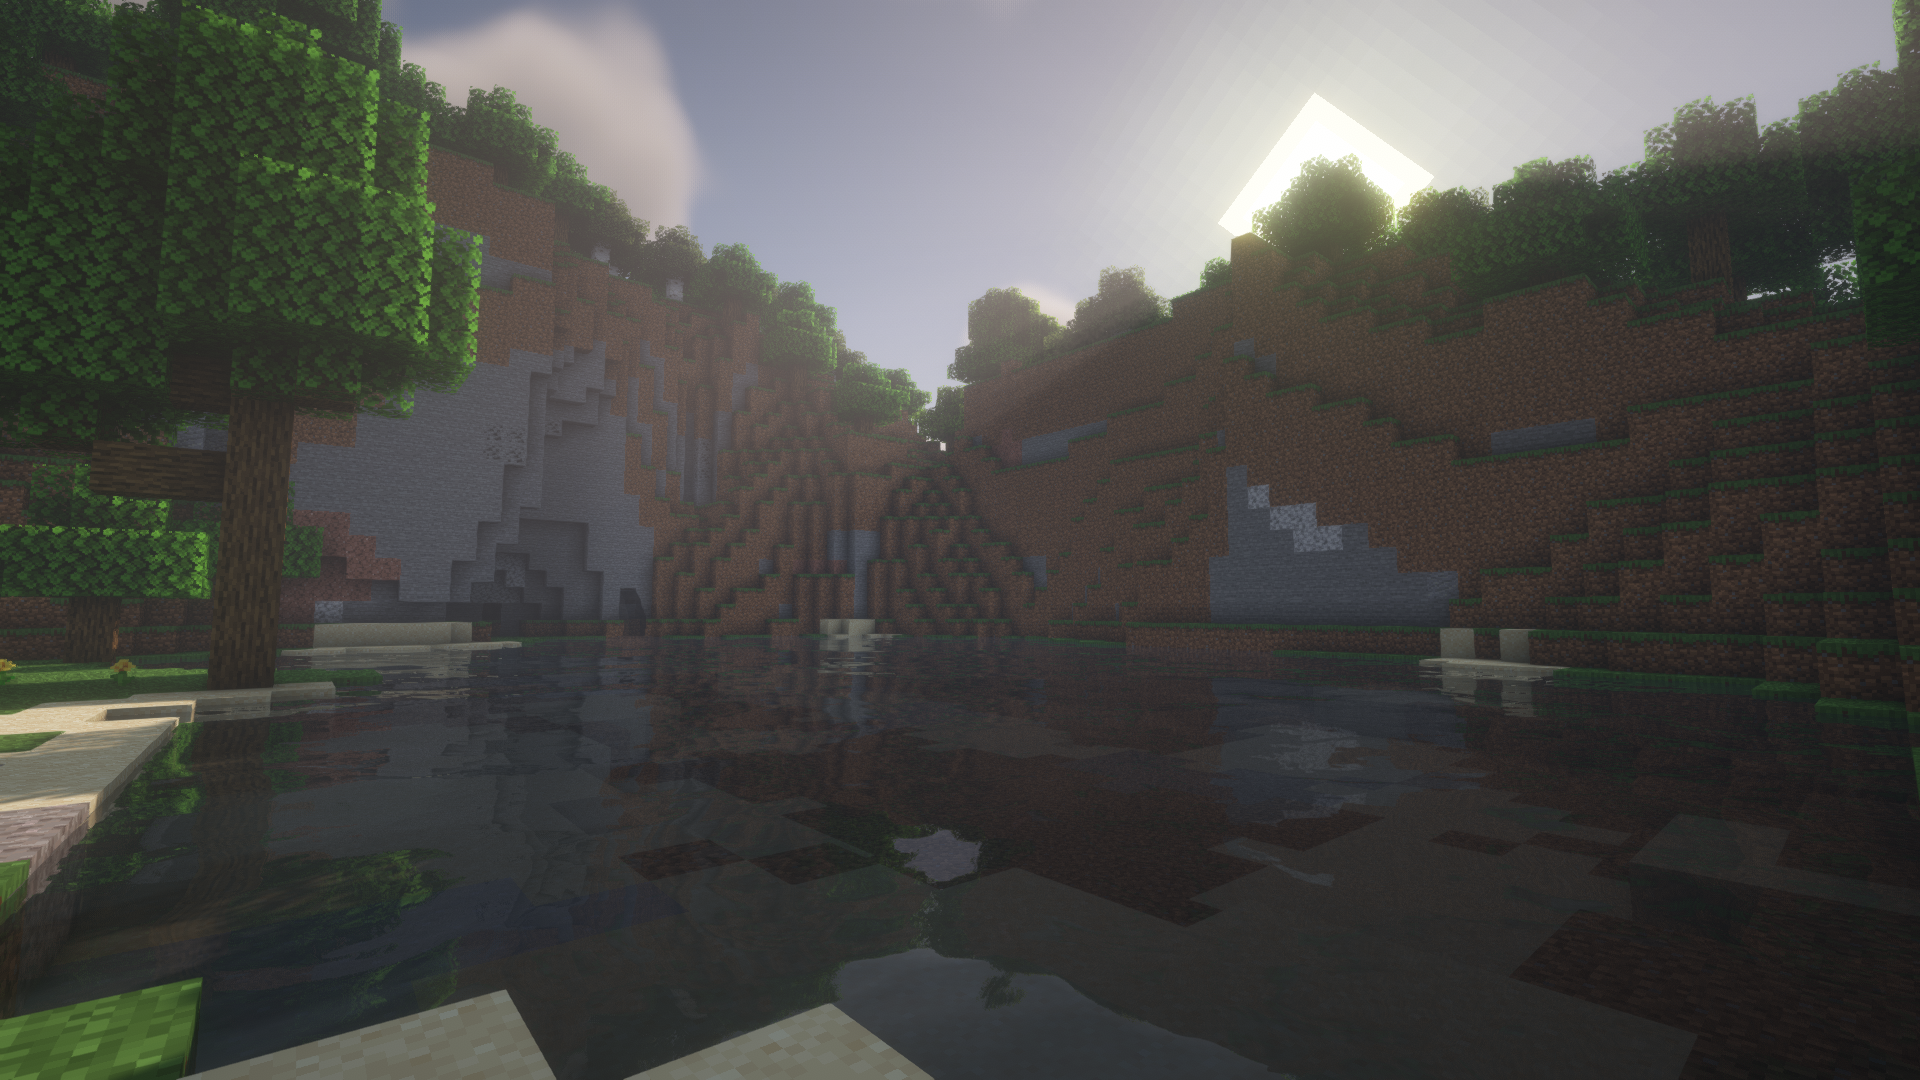
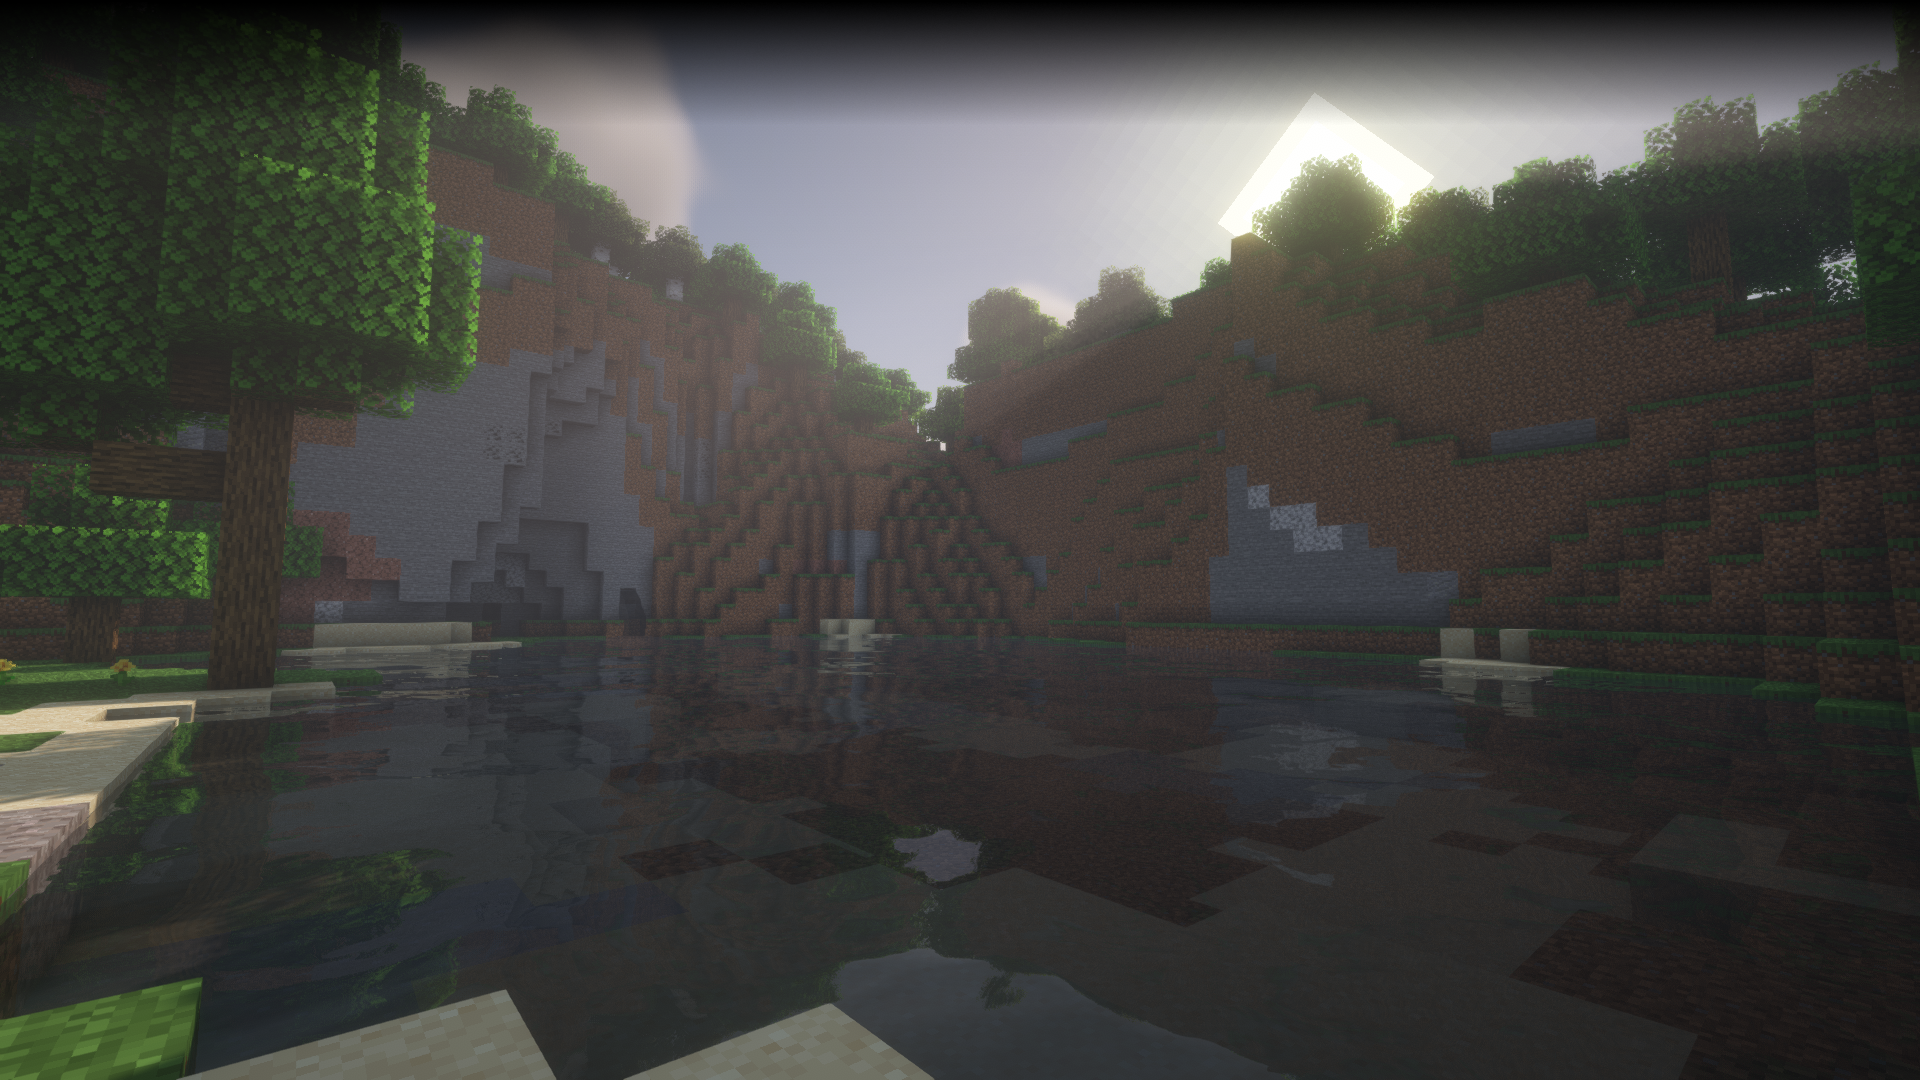
i forgor :skull:

Changed region(s): [[0.0, 0.0, 1.0, 0.1222]]

diff --git a/index.html b/index.html
@@ -10,11 +10,10 @@
     <header>
         <div class="headerContainer">
             <h3>MrSlime's personal page</h3>
+            <h1>MrSlime's page of (not) epicness</h1>
         </div>
     </header>
     <div class="title">
         <img src="images/background.png" class="background">
-        <img src="images/fade.png" class="fade">
-        <h1>MrSlime's page of (not) epicness</h1>
     </div>
 </body>

diff --git a/styles/index.css b/styles/index.css
@@ -14,12 +14,11 @@ h3 {
 .background {
     max-width: 100%;
     max-height: 100%;
-    
+    position: relative;
 }
 
 h1 {
     color: white;
     font-family: Georgia;
-    text-align: center;
-    margin-top: 120px;
+    position: absolute;
 }
